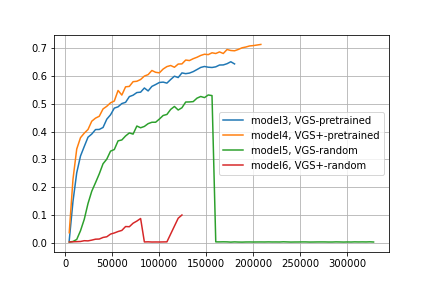
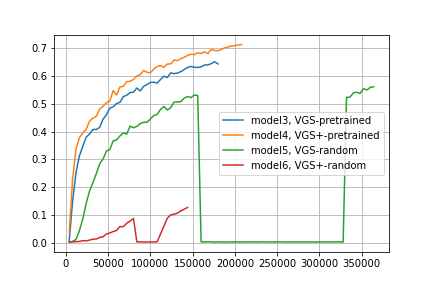
plotting loss and recalls

diff --git a/steps/test_tensorboard.py b/steps/test_tensorboard.py
@@ -18,6 +18,7 @@ model5 = torch.load('/worktmp2/hxkhkh/current/FaST/experiments/model5/exp/96000_
 event3 = EventAccumulator('/worktmp2/hxkhkh/current/FaST/experiments/model3/exp/events.out.tfevents.1663923398.nag06.tcsc-local.5309.0')
 event4 = EventAccumulator('/worktmp2/hxkhkh/current/FaST/experiments/model4/exp/events.out.tfevents.1663929583.nag03.tcsc-local.15677.0')
 event5 = EventAccumulator('/worktmp2/hxkhkh/current/FaST/experiments/model5/exp/events.out.tfevents.1664002919.nag12.tcsc-local.193615.0')
+event5new = EventAccumulator('/worktmp2/hxkhkh/current/FaST/experiments/model5/exp/events.out.tfevents.1664278096.nag12.tcsc-local.184314.0')
 event6 = EventAccumulator('/worktmp2/hxkhkh/current/FaST/experiments/model6/exp/events.out.tfevents.1664140341.nag06.tcsc-local.4384.0')
 event6new = EventAccumulator('/worktmp2/hxkhkh/current/FaST/experiments/model6/exp/events.out.tfevents.1664274714.nag06.tcsc-local.24897.0' )
 
@@ -30,6 +31,31 @@ event6new = EventAccumulator('/worktmp2/hxkhkh/current/FaST/experiments/model6/e
 # tags : 
 # 'acc_r10'
 # 'coarse_matching_loss'
+# 'caption_w2v2_loss'
+# 'weighted_loss'
+
+event6new.Reload()
+df_loss_vgs = pd.DataFrame(event6new.Scalars('coarse_matching_loss'))
+df_loss_w2v2 = pd.DataFrame(event6new.Scalars('caption_w2v2_loss'))
+df_loss_total = pd.DataFrame(event6new.Scalars('weighted_loss'))
+
+loss_vgs = df_loss_vgs[::50]
+loss_w2v2 = df_loss_w2v2[::50]
+loss_total = df_loss_total[::50]
+
+y_vgs = loss_vgs['value']
+y_w2v2 = loss_w2v2['value']
+y_total = loss_total['value']
+
+plt.figure()
+plt.plot(y_vgs, label = 'loss vgs')
+plt.plot(y_w2v2, label = 'loss w2v2')
+plt.plot(y_total, label = 'loss total')
+
+plt.grid()
+plt.legend()
+plt.savefig('figures/loss-model6new.png', format = 'png')
+
 ################################   model 2   ##################################
 # event5_r10 = event5.Scalars('acc_r10')
 # tags = accreload.Tags()
@@ -46,9 +72,17 @@ x4 = df4['step']
 y4 = df4['value']
 
 accreload = event5.Reload()
-df5 = pd.DataFrame(event5.Scalars('acc_r10'))
-x5 = df5['step']
-y5 = df5['value']
+df5old = pd.DataFrame(event5.Scalars('acc_r10'))
+x5old = df5old['step']
+y5old = df5old['value']
+
+accreload = event5new.Reload()
+df5new = pd.DataFrame(event5new.Scalars('acc_r10'))
+x5new = df5new['step']
+y5new = df5new['value']
+
+x5 = pd.concat([x5old,x5new])
+y5 = pd.concat([y5old,y5new])
 
 
 accreload = event6.Reload()
